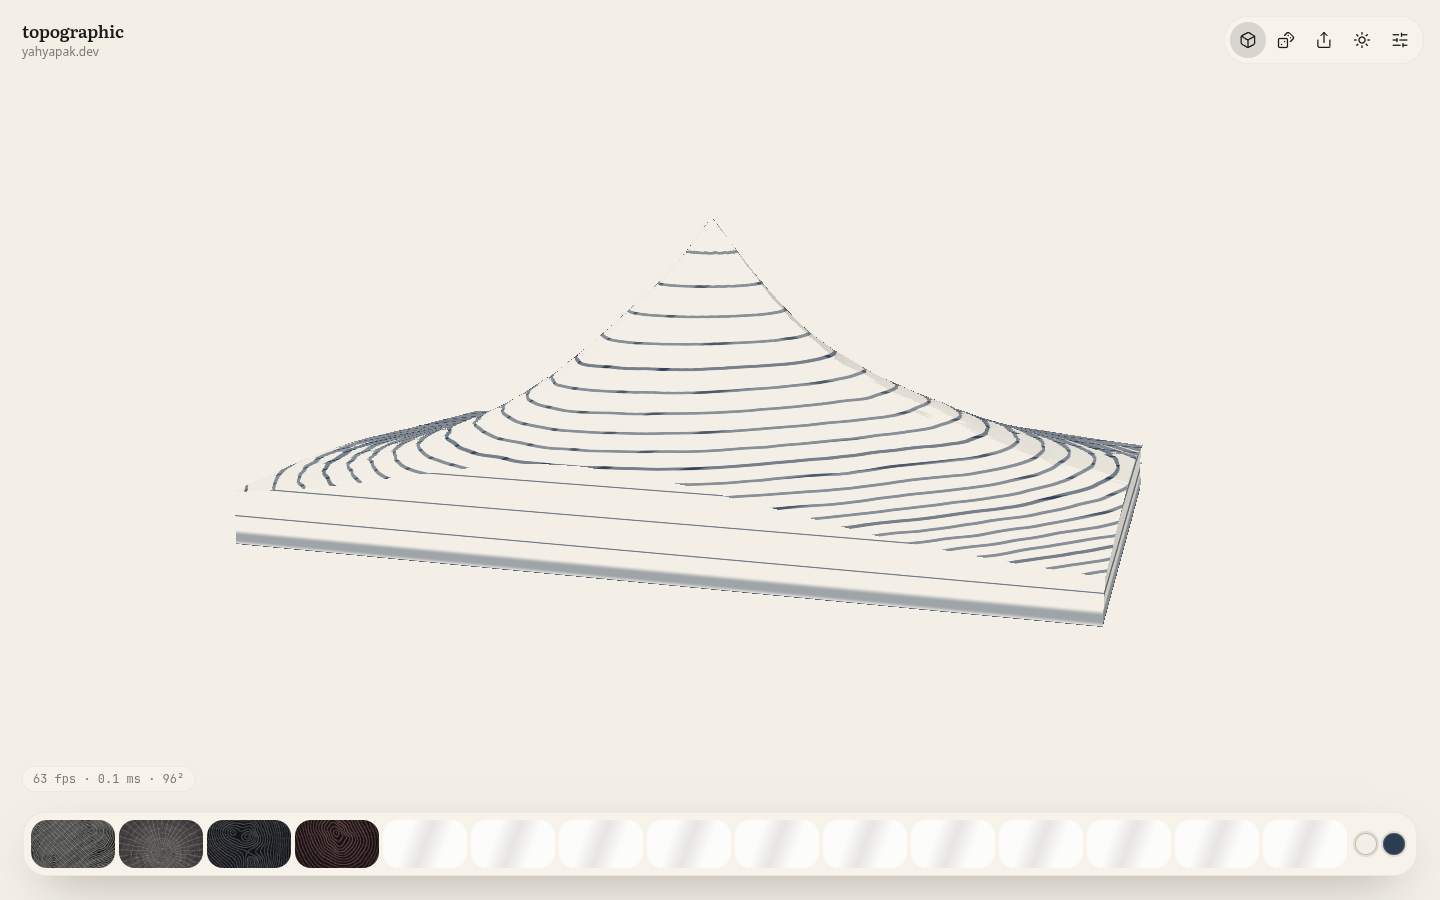
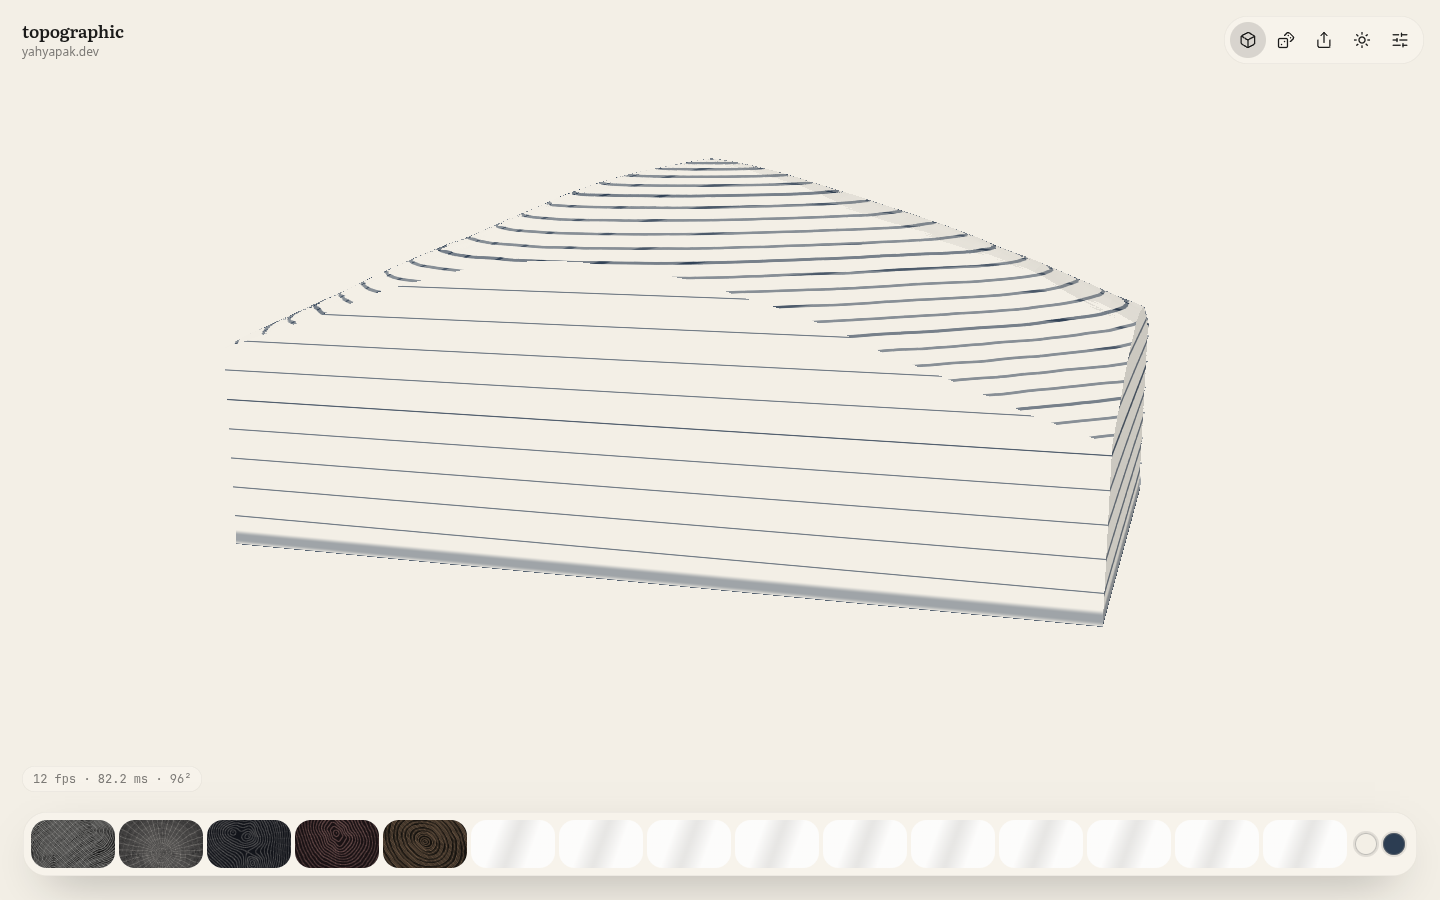
round the 3d crests
- elevation raises the terrain and keeps a smooth shoulder at the summit
- the same field still drives both views, and elevation 0 stays flat

Changed region(s): [[0.1875, 0.1867, 0.8125, 0.6533], [0.25, 0.9022, 0.3438, 0.9644], [0.0625, 0.84, 0.125, 0.8711]]

diff --git a/apps/playground/docs.ts b/apps/playground/docs.ts
@@ -47,7 +47,7 @@ Other settings:
 - \`theme.mode\` (attribute \`theme\`): \`auto\` (follows the OS), \`light\` or \`dark\`.
 - \`theme.ink\` / \`theme.paper\` (attributes \`ink\`, \`paper\`): any CSS colour; paper may be \`transparent\`. Without them, the CSS variables \`--topographic-ink\` and \`--topographic-paper\` are used, then the mode defaults.
 - \`mode\` (attribute \`mode\`): \`2d\` (default) or \`3d\`. 3D draws the same contour field as a terrain. The same seed gives the same map in both.
-- \`elevation\` (attribute \`elevation\`): 0 to 1, default 0.62. 3D height. 0 is flat like the 2D map; higher values make peaks taller and sharper.
+- \`elevation\` (attribute \`elevation\`): 0 to 1, default 0.62. 3D height. 0 is flat like the 2D map; higher values make the terrain taller, with a rounded crest.
 - \`extent\` (attribute \`extent\`): \`block\` (default) is a finite tabletop whose cut sides carry thin ink layer lines. \`endless\` continues the terrain past the view.
 - \`detail\` (attribute \`detail\`): 0 to 1, default 0.5. Mesh resolution, from 32² to 160². Use a low value on a slow device.
 - \`camera.azimuth\` (attribute \`azimuth\`): degrees around the terrain. Any finite number. Default 42.

diff --git a/apps/playground/src/agent-tools.ts b/apps/playground/src/agent-tools.ts
@@ -24,7 +24,7 @@ export const SETTINGS_SCHEMA = {
       },
     },
     mode: { type: 'string', enum: ['2d', '3d'], description: '2d is the map. 3d is the same map as a terrain. 2d is the default.' },
-    elevation: { type: 'number', minimum: 0, maximum: 1, description: '3D height. 0 is flat like the map; higher values make peaks taller and sharper.' },
+    elevation: { type: 'number', minimum: 0, maximum: 1, description: '3D height. 0 is flat like the map; higher values make the terrain taller, with a rounded crest.' },
     extent: { type: 'string', enum: ['block', 'endless'], description: 'block is a finite tabletop with cut sides. endless continues past the view.' },
     detail: { type: 'number', minimum: 0, maximum: 1, description: '3D mesh resolution. 0 is coarsest, 1 is finest.' },
     camera: {

diff --git a/packages/core/src/shader/terrain.glsl.ts b/packages/core/src/shader/terrain.glsl.ts
@@ -17,11 +17,14 @@ ${COMMON_MATH}
 ${CONTOUR_FIELD}
 float reliefOf(float f){
   float n=max(uParams[0],1.);
+  float h=clamp(uHeight,0.,1.);
   float u=f/n;
-  float knee=mix(1.05,.28,clamp(uHeight,0.,1.));
-  float peak=exp(-max(u,-.4)/knee);
-  peak=pow(max(peak,0.), mix(1.,1.8,clamp(uHeight,0.,1.)));
-  return uHeight*peak*.62;
+  float sigma=mix(1.15,.92,h);
+  float x=u+.18;
+  float dome=exp(-(x*x)/(sigma*sigma));
+  float shoulder=1.-smoothstep(0.,.55,abs(x)/sigma);
+  dome=mix(dome, mix(dome,1.,.35), shoulder);
+  return h*dome*mix(.6,.8,h);
 }
 void main(){
   vec2 stretched=(aUV-0.5)*uReach;

diff --git a/apps/playground/src/prototype/ui.tsx b/apps/playground/src/prototype/ui.tsx
@@ -370,7 +370,7 @@ function ViewTune({ pg }: { pg: Playground }) {
     <div className="pt-klist">
       <RangeRow
         label="Elevation"
-        hint="0 is flat like the map. Higher values make peaks taller and sharper."
+        hint="0 is flat like the map. Higher values make the terrain taller, with a rounded crest."
         value={s.elevation} min={0} max={1} step={0.01} digits={2}
         onChange={(n) => pg.change({ elevation: n })}
         onReset={s.elevation === DEFAULT_ELEVATION ? undefined : () => pg.change({ elevation: DEFAULT_ELEVATION })}

diff --git a/packages/core/src/settings.ts b/packages/core/src/settings.ts
@@ -40,7 +40,7 @@ export interface Settings {
   theme: ThemeSettings;
   /** 2D is the map. 3D is the same map as a terrain. */
   mode: RenderMode;
-  /** 0 is flat like the 2D map. Higher values make peaks taller and sharper. */
+  /** 0 is flat like the 2D map. Higher values make the terrain taller, with a rounded crest. */
   elevation: number;
   extent: TerrainExtent;
   /** 0 is the coarsest mesh, 1 the finest. */

diff --git a/docs/guide.md b/docs/guide.md
@@ -159,7 +159,7 @@ Values outside a range are clamped, whole-number settings are rounded, and anyth
 | Setting | Attribute | Range | Default | What it does |
 |---|---|---|---|---|
 | `mode` | `mode` | `2d`, `3d` | `2d` | The flat map, or that map as a terrain. |
-| `elevation` | `elevation` | 0–1 | 0.62 | 3D height. 0 is flat like the map. Higher values make peaks taller and sharper. |
+| `elevation` | `elevation` | 0–1 | 0.62 | 3D height. 0 is flat like the map. Higher values make the terrain taller, with a rounded crest. |
 | `extent` | `extent` | `block`, `endless` | `block` | A finite tabletop with ink layer lines on the cut sides, or terrain that continues past the view. |
 | `detail` | `detail` | 0–1 | 0.5 | Mesh resolution, from 32² to 160². |
 | `camera.azimuth` | `azimuth` | any finite number | 42 | Degrees around the terrain. |
